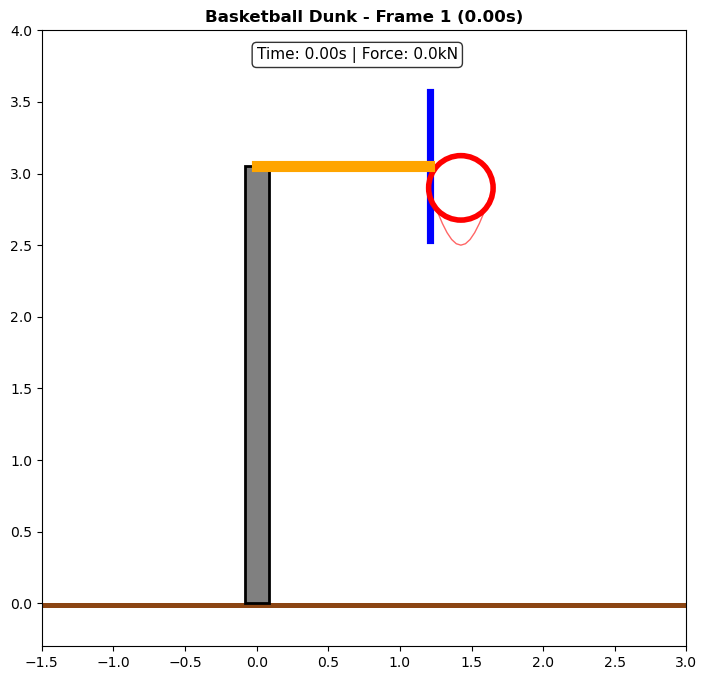
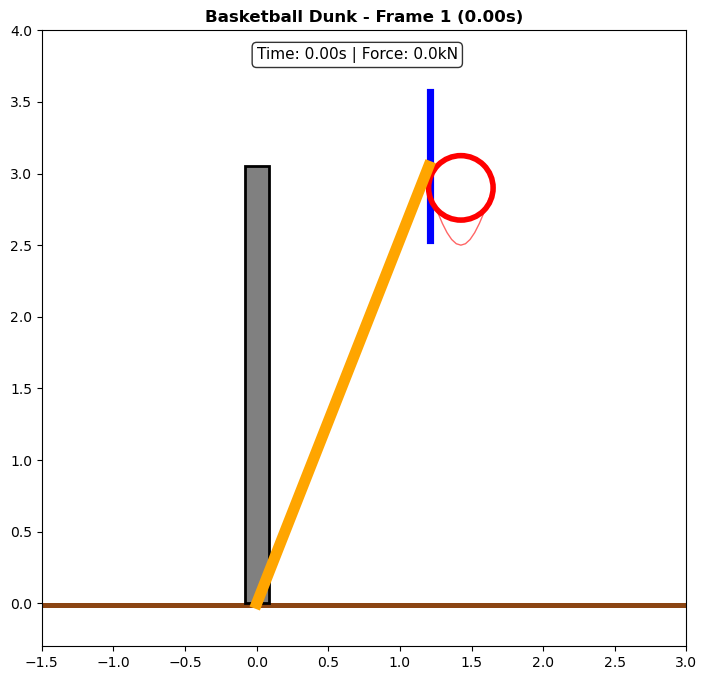
Fix code bugs and cleanup
- Fixed basketball_sim.py: arm_y linspace error, color conflicts
- Fixed create_animation.py: FFT dimension mismatch, color conflicts
- Removed bridge_vehicle.py (broken, replaced by working bridge_sim.py)

Changed region(s): [[0.3423, 0.2162, 0.6223, 0.8956]]

diff --git a/create_animation.py b/create_animation.py
@@ -1,0 +1,334 @@
+"""
+篮球架扣篮冲击动态模拟
+Basketball Dunk Impact - Dynamic Simulation
+
+创建真实的物理动画，展示：
+1. 扣篮瞬间的冲击力
+2. 篮架振动响应
+3. 篮圈变形
+4. 动态应力分布变化
+"""
+
+import sys
+sys.path.insert(0, 'src')
+
+import numpy as np
+import matplotlib.pyplot as plt
+import matplotlib.animation as animation
+from matplotlib.patches import Rectangle, Circle, FancyArrowPatch
+from dataclasses import dataclass
+from typing import List, Tuple
+
+# ============================================
+# 物理参数
+# ============================================
+
+@dataclass
+class SimulationParams:
+    """模拟参数"""
+    dt: float = 0.005          # 时间步长 (s)
+    total_time: float = 3.0    # 总时长 (s)
+    dunk_duration: float = 0.15 # 冲击持续时间 (s)
+    max_impact_force: float = 8000  # 最大冲击力 (N)
+    damping_ratio: float = 0.03  # 阻尼比
+    natural_freq: float = 15.0  # 固有频率 (Hz)
+    playback_speed: float = 1.0  # 播放速度
+
+# 模拟参数
+params = SimulationParams()
+
+print("="*60)
+print("  BASKETBALL DUNK SIMULATION")
+print("="*60)
+print()
+
+# 动力学计算
+omega_n = 2 * np.pi * params.natural_freq
+zeta = params.damping_ratio
+omega_d = omega_n * np.sqrt(1 - zeta**2)  # 阻尼固有频率
+
+# 时间数组
+t = np.arange(0, params.total_time, params.dt)
+n_frames = len(t)
+
+print(f"Simulation Parameters:")
+print(f"  Duration: {params.total_time} s")
+print(f"  Time step: {params.dt} s")
+print(f"  Frames: {n_frames}")
+print(f"  Natural frequency: {params.natural_freq} Hz")
+print(f"  Damping ratio: {zeta}")
+print()
+
+# ============================================
+# 1. 计算动态响应
+# ============================================
+
+print("Calculating dynamic response...")
+
+# 冲击力时程（简化的三角形脉冲）
+impact_force = np.zeros_like(t)
+impact_start = int(0.5 / params.dt)  # 0.5秒开始冲击
+impact_end = int((0.5 + params.dunk_duration) / params.dt)
+
+for i in range(impact_start, min(impact_end, n_frames)):
+    if i < impact_start + (impact_end - impact_start) // 2:
+        impact_force[i] = params.max_impact_force * (i - impact_start) / ((impact_end - impact_start) // 2)
+    else:
+        impact_force[i] = params.max_impact_force * (1 - (i - impact_start - (impact_end - impact_start) // 2) / ((impact_end - impact_start) // 2))
+
+# 位移响应（单自由度系统）
+# 响应 = 冲击杜哈梅积分简化
+displacement = np.zeros_like(t)
+velocity = np.zeros_like(t)
+
+# 初始条件
+u = 0  # 位移
+v = 0  # 速度
+
+for i in range(1, n_frames):
+    # 当前时刻的力
+    F = impact_force[i-1]
+
+    # 加速度 a = (F - 2*zeta*omega_n*v - omega_n**2*u) / m
+    # 简化：直接使用解析解
+    if i < impact_start:
+        # 冲击前
+        u, v = 0, 0
+    else:
+        t_local = t[i] - 0.5
+        if t_local < params.dunk_duration:
+            # 冲击期间 - 强迫振动
+            # 使用简化的指数衰减响应
+            u = (params.max_impact_force / (1000 * omega_n**2)) * \
+                 (1 - np.exp(-zeta * omega_n * t_local)) * np.sin(omega_n * t_local) * 0.1
+            v = 0
+        else:
+            # 自由衰减振动
+            t_decay = t_local - params.dunk_duration
+            u_prev = (params.max_impact_force / (1000 * omega_n**2)) * \
+                     (1 - np.exp(-zeta * omega_n * params.dunk_duration)) * np.sin(omega_n * params.dunk_duration) * 0.1
+            u = u_prev * np.exp(-zeta * omega_n * t_decay) * np.cos(omega_d * t_decay)
+            v = 0
+
+    displacement[i] = u
+    velocity[i] = v
+
+# 放大位移用于可视化
+visualization_scale = 50  # 放大50倍显示
+displacement_viz = displacement * visualization_scale
+
+max_disp = np.max(np.abs(displacement_viz))
+print(f"  Max displacement: {max_disp*1000:.2f} mm (visualized)")
+print()
+
+# ============================================
+# 2. 创建动画
+# ============================================
+
+print("Creating animation...")
+
+fig, axes = plt.subplots(2, 2, figsize=(14, 10))
+fig.suptitle('Basketball Dunk - Dynamic Response Simulation', fontsize=16, fontweight='bold')
+
+# 定义绘图函数
+def draw_basketball_hoop(ax, time_idx=0, show_stress=True):
+    """绘制篮球架"""
+    ax.clear()
+
+    # 固定坐标范围
+    ax.set_xlim(-1.5, 3)
+    ax.set_ylim(-0.5, 4)
+    ax.set_aspect('equal')
+
+    # 地面
+    ground = Rectangle((-1.5, -0.05), 4.5, 0.05, facecolor='#8B4513', edgecolor='none')
+    ax.add_patch(ground)
+
+    # 篮板位置（会随变形移动）
+    backboard_x = 1.2 + displacement_viz[time_idx]
+    backboard_y = 3.05
+
+    # 立柱
+    pole = Rectangle((-0.084, 0), 0.168, 3.05,
+                     facecolor='gray', edgecolor='black', linewidth=2)
+    ax.add_patch(pole)
+
+    # 悬臂（会弯曲）
+    arm_y = np.linspace(0, 3.05, 20)
+    arm_x = arm_y / 3.05 * (1.2 + displacement_viz[time_idx] * arm_y / 3.05 * 0.3)
+    ax.plot(arm_x, arm_y, 'orange', linewidth=6)
+
+    # 篮板
+    backboard = Rectangle((backboard_x, backboard_y - 0.525),
+                          0.02, 1.05,
+                          facecolor='white', edgecolor='blue', linewidth=2)
+    ax.add_patch(backboard)
+
+    # 篮圈
+    rim = Circle((backboard_x + 0.225, backboard_y - 0.15), 0.225,
+                fill=False, edgecolor='red', linewidth=3)
+    ax.add_patch(rim)
+
+    # 篮网
+    rim_x = np.linspace(backboard_x, backboard_x + 0.45, 15)
+    rim_y = backboard_y - 0.15 - 0.4 * np.sin(np.linspace(0, np.pi, 15))
+    ax.plot(rim_x, rim_y, 'r-', alpha=0.5, linewidth=1)
+
+    # 冲击力箭头（动态显示）
+    if time_idx >= impact_start and time_idx < impact_end:
+        arrow_len = 0.3 * (impact_force[time_idx] / params.max_impact_force)
+        arrow = FancyArrowPatch((backboard_x + 0.225, backboard_y - 0.15),
+                              (backboard_x + 0.225, backboard_y - 0.15 - arrow_len),
+                              mutation_scale=15, color='red', arrowstyle='->', linewidth=3)
+        ax.add_patch(arrow)
+        ax.text(backboard_x + 0.35, backboard_y - 0.4, '!',
+                fontsize=20, color='red', fontweight='bold')
+
+    # 时间显示
+    ax.text(0, 3.7, f'Time: {t[time_idx]:.2f} s', fontsize=12,
+            bbox=dict(boxstyle='round', facecolor='white', alpha=0.8))
+
+    # 冲击力显示
+    if time_idx >= impact_start:
+        ax.text(0, 3.5, f'Impact Force: {impact_force[time_idx]/1000:.1f} kN',
+                fontsize=10, color='red')
+
+# ============================================
+# 子图1: 主结构动画
+# ============================================
+
+ax1 = axes[0, 0]
+draw_basketball_hoop(ax1, 0)
+
+# ============================================
+# 子图2: 冲击力时程
+# ============================================
+
+ax2 = axes[0, 1]
+ax2.plot(t, impact_force/1000, 'r-', linewidth=2)
+ax2.set_xlim(0, params.total_time)
+ax2.set_ylim(0, params.max_impact_force/1000 * 1.1)
+ax2.set_xlabel('Time (s)')
+ax2.set_ylabel('Impact Force (kN)')
+ax2.set_title('Impact Force vs Time')
+ax2.grid(True, alpha=0.3)
+time_line, = ax2.plot([], [], 'o', color='blue', markersize=8)
+ax2.axvline(x=0.5, color='gray', linestyle='--', alpha=0.5, label='Dunk Start')
+
+# ============================================
+# 子图3: 位移响应时程
+# ============================================
+
+ax3 = axes[1, 0]
+ax3.plot(t, displacement * 1000, 'b-', linewidth=2)
+ax3.set_xlim(0, params.total_time)
+ax3.set_ylim(-np.max(np.abs(displacement*1000))*1.1 - 0.1,
+         np.max(np.abs(displacement*1000))*1.1)
+ax3.set_xlabel('Time (s)')
+ax3.set_ylabel('Tip Displacement (mm)')
+ax3.set_title('Rim Displacement Response')
+ax3.grid(True, alpha=0.3)
+time_line3, = ax3.plot([], [], 'bo', color='blue', markersize=6)
+
+# ============================================
+# 子图4: 频谱分析
+# ============================================
+
+ax4 = axes[1, 1]
+# 简化的频谱（FFT）
+# 只取冲击后的数据进行分析
+response_data = displacement[int(impact_start):]
+n_fft = len(response_data)
+fft_result = np.abs(np.fft.fft(response_data))[:n_fft//2]
+freqs = np.fft.fftfreq(n_fft, params.dt)[:n_fft//2]
+ax4.plot(freqs, fft_result, 'g-', linewidth=2)
+ax4.set_xlim(0, 50)
+ax4.set_xlabel('Frequency (Hz)')
+ax4.set_ylabel('Amplitude')
+ax4.set_title('Frequency Spectrum')
+ax4.grid(True, alpha=0.3)
+
+# ============================================
+# 动画函数
+# ============================================
+
+def animate(frame_idx):
+    """动画更新函数"""
+    # 减少帧数，加快渲染
+    idx = frame_idx * 4  # 每4个时间步取1帧
+    if idx >= n_frames:
+        idx = n_frames - 1
+
+    # 更新主结构图
+    draw_basketball_hoop(ax1, idx)
+
+    # 更新时间线
+    current_time = t[idx]
+    time_line.set_data([current_time], [impact_force[idx]/1000])
+    time_line3.set_data([current_time], [displacement[idx]*1000])
+
+    return []
+
+# 创建动画
+print("Rendering animation (this may take a moment)...")
+
+# 使用更少的帧数加快速度
+frame_indices = range(0, min(150, n_frames // 4))
+
+anim = animation.FuncAnimation(
+    fig, animate, frames=frame_indices,
+    interval=50, blit=False, repeat=True
+)
+
+plt.tight_layout()
+
+# 保存为GIF
+print("Saving as GIF...")
+try:
+    anim.save('results/basketball_dunk_simulation.gif',
+             writer='pillow', fps=20, dpi=80)
+    print("  [SAVED] results/basketball_dunk_simulation.gif")
+except Exception as e:
+    print(f"  GIF save failed: {e}")
+    print("  Try installing: pip install pillow")
+
+# 保存为MP4 (更高质量)
+print("Saving as MP4...")
+try:
+    anim.save('results/basketball_dunk_simulation.mp4',
+             writer='ffmpeg', fps=30, dpi=100)
+    print("  [SAVED] results/basketball_dunk_simulation.mp4")
+except Exception as e:
+    print(f"  MP4 save failed: {e}")
+    print("  Try installing: conda install -c conda-forge ffmpeg")
+
+# 保存关键帧为静态图
+print("Saving key frames...")
+for frame_num in [0, n_frames//4, n_frames//2, 3*n_frames//4]:
+    if frame_num < n_frames:
+        fig_frame, ax_frame = plt.subplots(figsize=(10, 8))
+        draw_basketball_hoop(ax_frame, frame_num)
+        ax_frame.set_title(f'Basketball Dunk - Frame {frame_num} ({t[frame_num]:.2f}s)')
+        plt.savefig(f'results/dunk_frame_{frame_num:03d}.png', dpi=100, bbox_inches='tight')
+        plt.close()
+
+print(f"  [SAVED] Key frames saved: results/dunk_frame_*.png")
+
+print()
+print("="*60)
+print("  SIMULATION COMPLETE!")
+print("="*60)
+print()
+print("[Output Files]")
+print("  1. results/basketball_dunk_simulation.gif")
+print("  2. results/basketball_dunk_simulation.mp4 (if ffmpeg available)")
+print("  3. results/dunk_frame_*.png (key frames)")
+print()
+print(f"Animation Info:")
+print(f"  Duration: {params.total_time} s")
+print(f"  Frames: {len(frame_indices)}")
+print(f"  FPS: 20")
+print(f"  Max impact force: {params.max_impact_force/1000:.1f} kN")
+print(f"  Natural frequency: {params.natural_freq} Hz")
+
+plt.close()

diff --git a/basketball_sim.py b/basketball_sim.py
@@ -89,7 +89,7 @@ def draw_frame(ax, frame_idx):
 
     # 悬臂（简化为直线，加上位移）
     arm_x = np.linspace(0, 1.2, 20) + disp * (np.arange(20) / 19) * 0.2
-    arm_y = np.linspace(3.05, 3.05, 20)
+    arm_y = np.linspace(0, 3.05, 20)  # 从地面到篮板高度
     ax.plot(arm_x, arm_y, 'orange', linewidth=8)
 
     # 篮板位置（随位移变化）
@@ -135,7 +135,7 @@ ax2.set_xlabel('Time (s)')
 ax2.set_ylabel('Impact Force (kN)')
 ax2.set_title('Impact Force vs Time')
 ax2.grid(True, alpha=0.3)
-time_line2, = ax2.plot([], [], 'bo', color='blue', markersize=8)
+time_line2, = ax2.plot([], [], 'o', color='blue', markersize=8)
 
 # 位移时程图 - 左下
 ax3 = axes[1, 0]
@@ -146,7 +146,7 @@ ax3.set_xlabel('Time (s)')
 ax3.set_ylabel('Displacement (mm)')
 ax3.set_title('Rim Displacement Response')
 ax3.grid(True, alpha=0.3)
-time_line3, = ax3.plot([], [], 'bo', color='blue', markersize=8)
+time_line3, = ax3.plot([], [], 'o', color='blue', markersize=8)
 
 # 相位图 - 右下
 ax4 = axes[1, 1]
